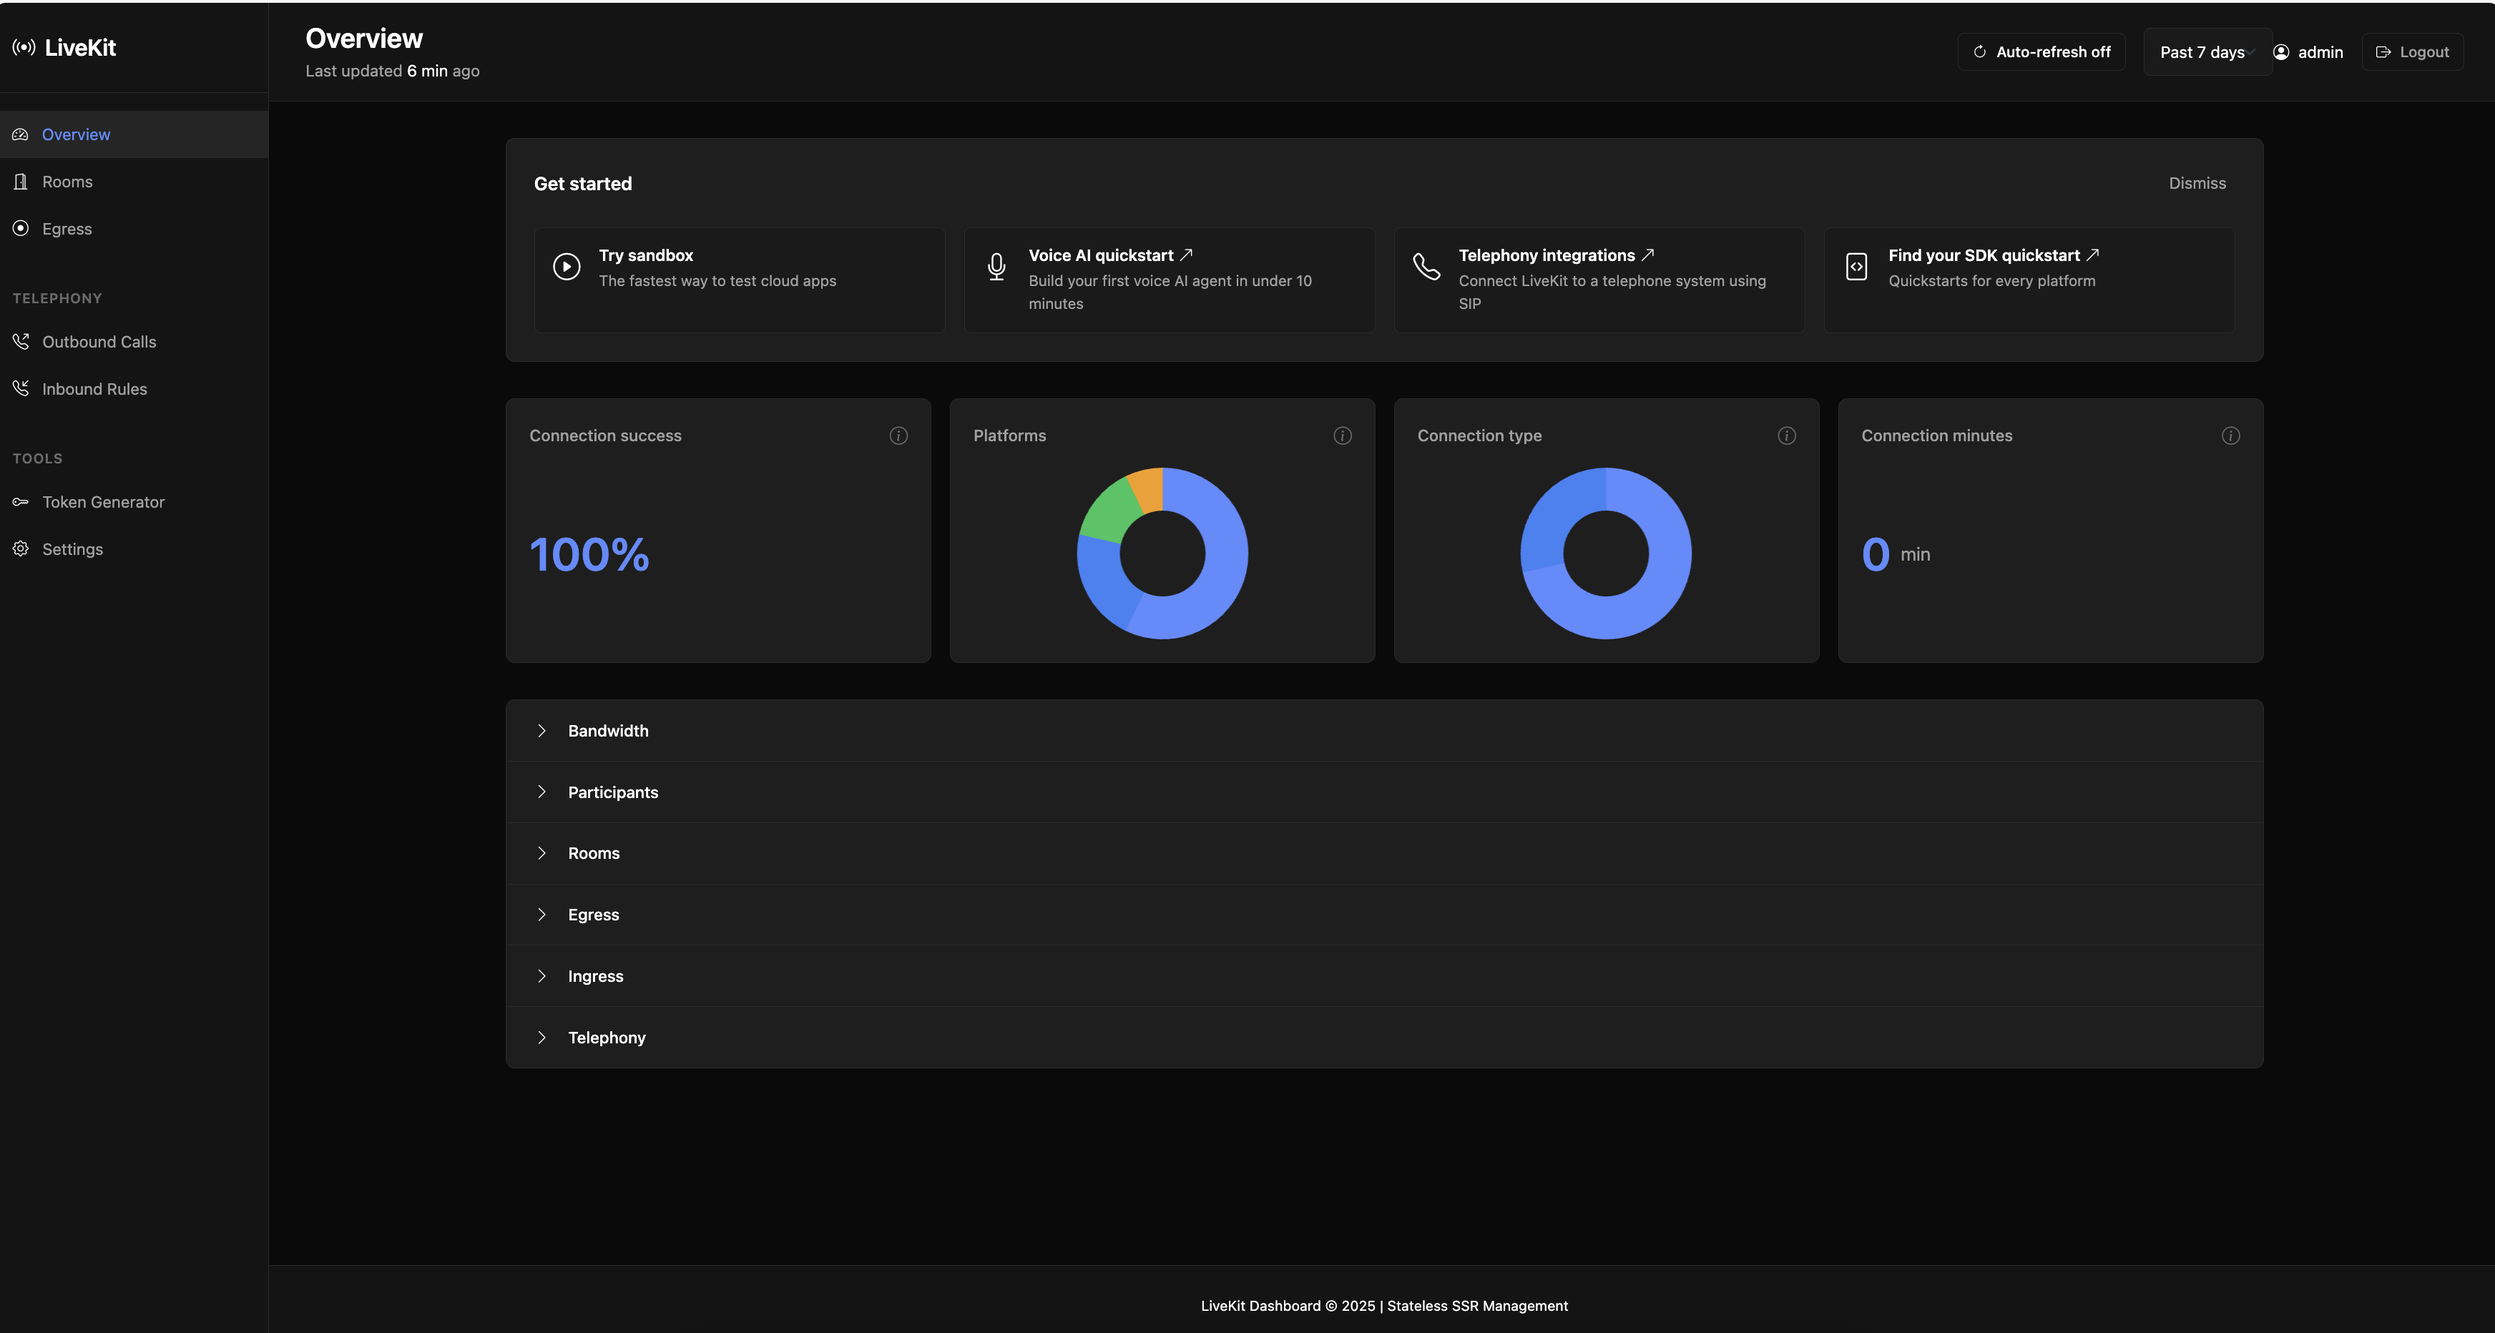
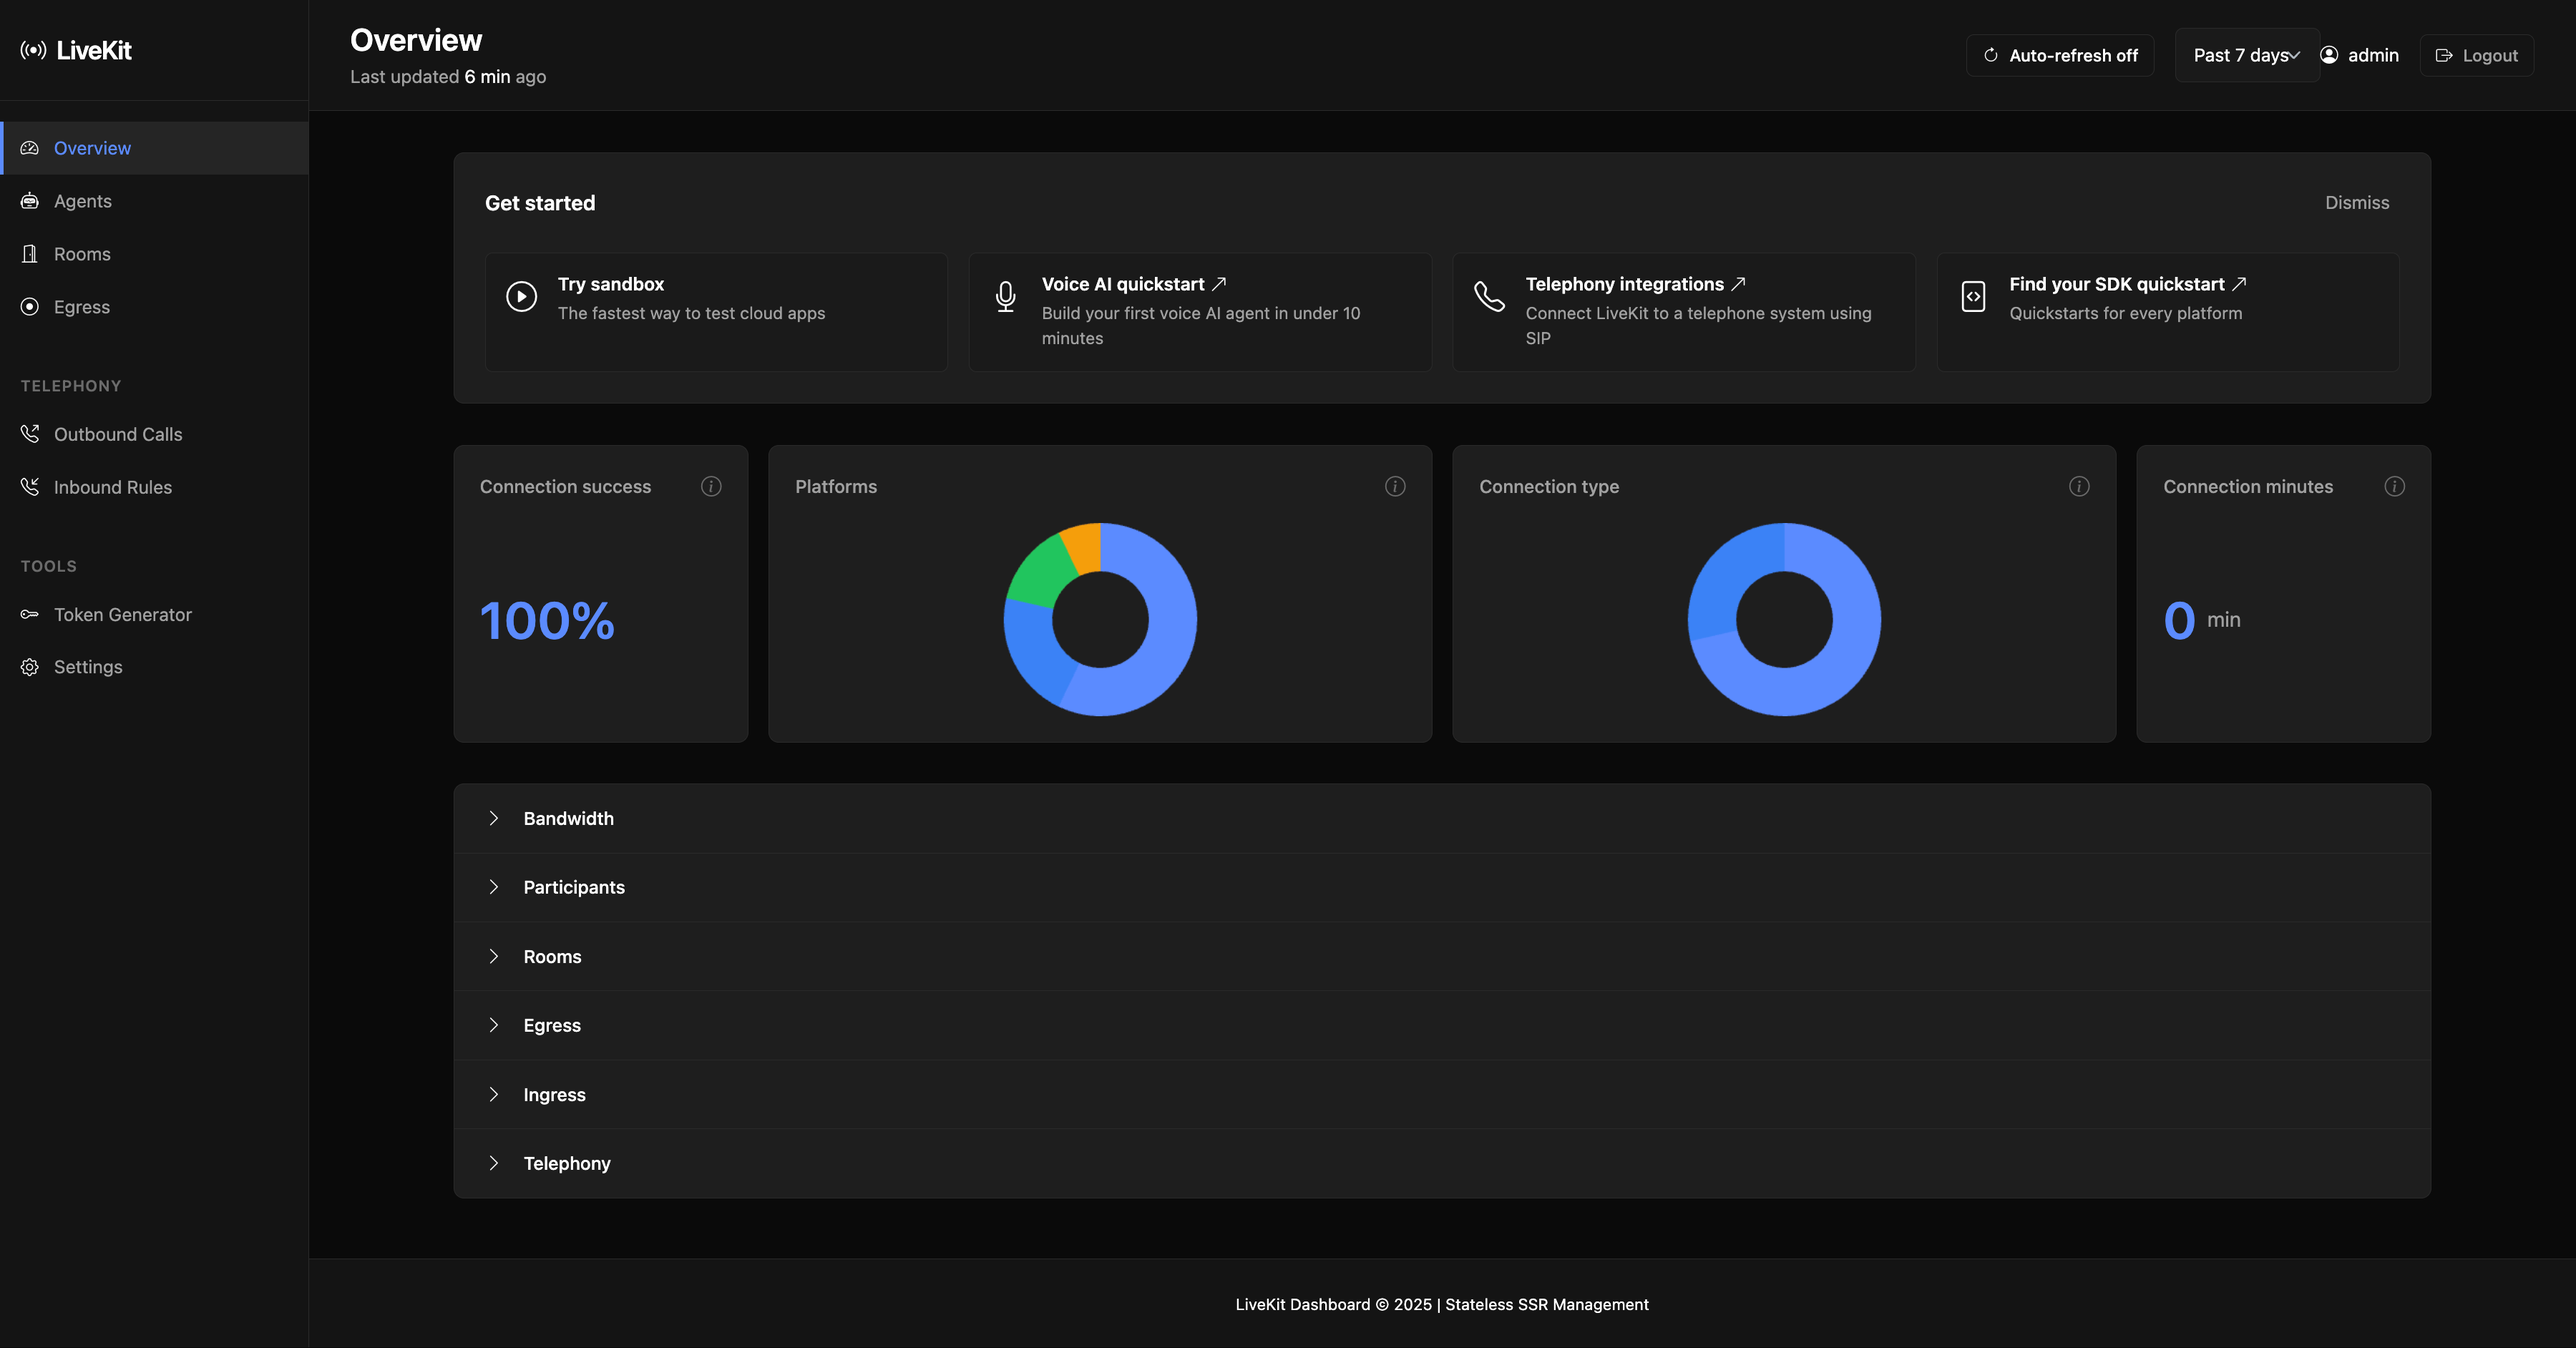
update readme

diff --git a/app/routes/agents.py b/app/routes/agents.py
@@ -140,6 +140,17 @@ async def agent_detail(
     rooms = sorted({d["room"] for d in dispatches})
     total_sessions = sum(d["running_jobs"] for d in dispatches)
 
+    # Aggregate job-level metrics across all dispatches
+    all_jobs = [j for d in dispatches for j in d["jobs"]]
+    total_jobs = len(all_jobs)
+    running_jobs_count = sum(1 for j in all_jobs if j["status"] == "running")
+    success_jobs_count = sum(1 for j in all_jobs if j["status"] == "success")
+    failed_jobs_count = sum(1 for j in all_jobs if j["status"] == "failed")
+    pending_jobs_count = sum(1 for j in all_jobs if j["status"] == "pending")
+    success_rate = round(success_jobs_count / total_jobs * 100, 1) if total_jobs > 0 else 0.0
+
+    agent_id = dispatches[0]["id"] if dispatches else None
+
     return request.app.state.templates.TemplateResponse(
         "agents/detail.html.j2",
         {
@@ -148,10 +159,17 @@ async def agent_detail(
             "sip_enabled": lk.sip_enabled,
             "csrf_token": get_csrf_token(request),
             "agent_name": agent_name,
+            "agent_id": agent_id,
             "dispatches": dispatches,
             "rooms": rooms,
             "total_sessions": total_sessions,
             "latency_ms": round(latency * 1000, 2),
+            "total_jobs": total_jobs,
+            "running_jobs_count": running_jobs_count,
+            "success_jobs_count": success_jobs_count,
+            "failed_jobs_count": failed_jobs_count,
+            "pending_jobs_count": pending_jobs_count,
+            "success_rate": success_rate,
         },
     )
 

diff --git a/README.md b/README.md
@@ -16,6 +16,7 @@ A **stateless**, self-hosted, server-side rendered (SSR) dashboard for managing 
 - 👥 **Participant Control** - Kick participants, view tracks, connection stats
 - 📹 **Egress/Recordings** - Start/stop composite egress, view active jobs
 - 📥 **Ingress Monitoring** - Stream analytics and connection quality metrics
+- 🤖 **Agent Management** - Dispatch agents to rooms, view job status and success rates
 - 📞 **SIP Integration** - (Optional) Manage SIP trunks, outbound/inbound calls
 - 🔧 **Settings View** - Read-only configuration and server info
 - 🧪 **Sandbox** - Token generator with HMAC verification helper
@@ -34,6 +35,7 @@ A **stateless**, self-hosted, server-side rendered (SSR) dashboard for managing 
 - **Room Analytics** - Active rooms, participant distribution, room sizes
 - **Egress Analytics** - Job status, success rates, storage usage, type distribution
 - **Ingress Analytics** - Stream monitoring, connection quality, bitrate analysis
+- **Agent Analytics** - Dispatch counts, job status breakdown, success rates per agent
 - **SIP Analytics** - Trunk status, call volume, dispatch rules (when enabled)
 
 ### Visual Components
@@ -218,6 +220,14 @@ ENABLE_SIP=false
 - Stop active recordings
 - View file outputs and download URLs
 
+#### Agents (`/agents`)
+
+- Fleet overview — all agent dispatches grouped by agent name
+- Per-agent detail page with job status breakdown and success rate chart
+- Dispatch agents to rooms with optional metadata
+- Delete active dispatches
+- Job-level metrics: running, success, pending, failed counts
+
 #### SIP (`/sip-outbound`, `/sip-inbound`)
 
 - View configured SIP trunks
@@ -268,6 +278,7 @@ livekit-dashboard/
 │   │   ├── overview.py         # Overview/dashboard
 │   │   ├── rooms.py            # Room management
 │   │   ├── egress.py           # Egress/recordings
+│   │   ├── agents.py           # Agent dispatch management
 │   │   ├── sip.py              # SIP telephony
 │   │   ├── settings.py         # Settings page
 │   │   ├── sandbox.py          # Token generator
@@ -282,6 +293,7 @@ livekit-dashboard/
 │   │   ├── index.html.j2       # Overview page
 │   │   ├── rooms/              # Room templates
 │   │   ├── egress/             # Egress templates
+│   │   ├── agents/             # Agent templates
 │   │   ├── sip/                # SIP templates
 │   │   ├── settings.html.j2    # Settings page
 │   │   └── sandbox.html.j2     # Token generator
@@ -409,6 +421,10 @@ make check
 | `/egress`              | GET    | List egress jobs   | ✅            |
 | `/egress/start`        | POST   | Start egress       | ✅            |
 | `/egress/{id}/stop`    | POST   | Stop egress        | ✅            |
+| `/agents`              | GET    | Agent fleet overview | ✅          |
+| `/agents/{name}`       | GET    | Per-agent detail   | ✅            |
+| `/agents/dispatch`     | POST   | Create dispatch    | ✅            |
+| `/agents/{id}/delete`  | POST   | Delete dispatch    | ✅            |
 | `/sip-outbound`        | GET    | SIP outbound page  | ✅            |
 | `/sip-inbound`         | GET    | SIP inbound page   | ✅            |
 | `/sandbox`             | GET    | Token generator    | ✅            |
@@ -476,6 +492,7 @@ This project is licensed under the MIT License - see the LICENSE file for detail
 - ✅ Token generation works on-the-fly
 - ✅ Room and participant management operational
 - ✅ Egress start/stop functionality
+- ✅ Agent dispatch management (fleet overview + per-agent detail)
 - ✅ SIP features (when enabled)
 
 ---
